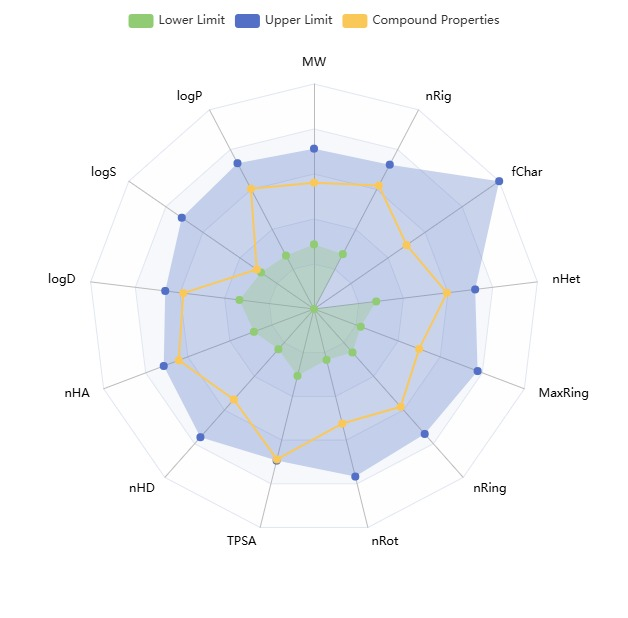
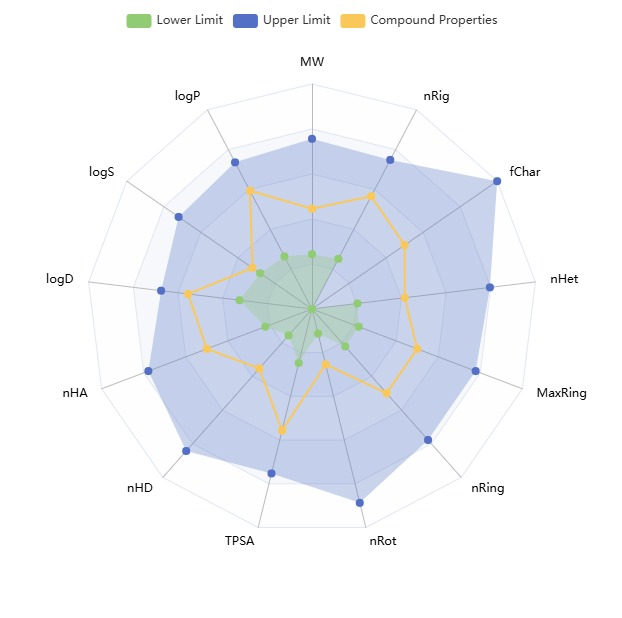
R-GRS

diff --git a/compounds-res/GRS.md b/compounds-res/GRS.md
@@ -34,7 +34,7 @@
 ---
 ### S-Изомер
 
-![Вещество](./images/r-iso-radar.jpg ""){:style="display: block; margin: auto;} 
+![Вещество](./images/s-iso-radar.jpg ""){:style="display: block; margin: auto;} 
 <p style="text-align: center;">Радар-диаграмма биоактивности. Показатели вещества входят в зону биоактивности</p>
 
 **Общее описание**
@@ -166,3 +166,144 @@ SR-p53	++
 
 >Промежуточный вывод: Общая картина анализа ADMET для данной конформации схожа с препаратами аналогами. Предсказаны несколько вариантов токсичности. Требуются уточнения другими методами.
 
+
+### R-Изомер
+
+![Вещество](./images/r-iso-radar.jpg ""){:style="display: block; margin: auto;} 
+<p style="text-align: center;">Радар-диаграмма биоактивности. Показатели вещества входят в зону биоактивности</p>
+
+**Общее описание**
+
+Согласно показателю QED данное вещество попадает в категорию unatractive, хотя близко к нижней границе atractive.
+
+По ряду правил (Липински, Файзер, ГСК, "Золотой треугольник") классифицируем данное вещество как биологически активное. Предупреждения PAINS отсутствуют.
+
+**ABSPORPTION**
+
+```
+Caco-2 Permeability	-5.424		
+MDCK Permeability	0.0		
+PAMPA	+++		
+Pgp inhibitor	++		
+Pgp substrate	---		
+HIA	---		
+F20%	---		
+F30%	-		
+F50%	++	
+```
+
+Предполоагается затрудненное всасывание через кишечную стенку согласно модели Caco-2.
+
+Согласно модели MDCK всасывание невозможно.
+
+Вероятнее всего Pgp не переносится, а также ингибирует действие. Адсорбируется в ЖКТ.
+Вероятность ингибирования меньше чем у другого изомера.
+
+Вероятнее всего в системный кровоток попадет около 20-30% препарата.
+
+**DISTRIBUTION**
+
+```
+PPB	85.9%		
+VDss	1.289		
+BBB	---		
+Fu	9.6%		
+OATP1B1 inhibitor	+++		
+OATP1B3 inhibitor	+++		
+BCRP inhibitor	---		
+MRP1 inhibitor	--		
+BSEP inhibitor	+++
+```
+*Значительная вероятность связывания с белками плазмы крови! Но меньше чем у другого изомера*
+
+Объем распределения входит в оптимальный диапазон. Через гематоэнцефалический барьер не проходит.
+
+Предполагаемая доля свободных моллекул в плазме крови выше в 2 раза.
+
+Есть вероятность ингибирования OATP1B1 и OATP1B3 транспортеров. 
+
+**METABOLISM**
+
+```
+CYP1A2 inhibitor	+++		
+CYP1A2 substrate	+++		
+CYP2C19 inhibitor	---		
+CYP2C19 substrate	---		
+CYP2C9 inhibitor	---		
+CYP2C9 substrate	---		
+CYP2D6 inhibitor	--		
+CYP2D6 substrate	---		
+CYP3A4 inhibitor	--		
+CYP3A4 substrate	---		
+CYP2B6 inhibitor	---		
+CYP2B6 substrate	---		
+CYP2C8 inhibitor	--		
+HLM Stability	--			
+```
+
+Указана значительная вероятность взаимодействия с цитохромом CYP1A2. Микросомальная стабильность ниже чем у изомера. 
+
+
+**EXCRETION**
+
+```
+CLplasma	4.572		ml/min/kg
+T1/2	0.963           hour
+```
+
+Клиренс низкий, время полувыведения - около часа.
+
+**TOXICITY**
+
+```
+hERG Blockers	0.048		
+hERG Blockers (10um)	0.258		
+DILI	0.9		
+AMES Toxicity	0.841		
+Rat Oral Acute Toxicity	0.307		
+FDAMDD	0.156		
+Skin Sensitization	0.977		
+Carcinogenicity	0.648		
+Eye Corrosion	0.009		
+Eye Irritation	0.788		
+Respiratory	0.139		
+Human Hepatotoxicity	0.883		
+Drug-induced Nephrotoxicity	0.804		
+Drug-induced Neurotoxicity	0.7		
+Ototoxicity	0.647		
+Hematotoxicity	0.529		
+Genotoxicity	0.966		
+RPMI-8226 Immunitoxicity	0.058		
+A549 Cytotoxicity	0.169		
+Hek293 Cytotoxicity	0.258		
+BCF	0.441		
+IGC50	3.036		
+LC50DM	4.444		
+LC50FM	3.676		
+                                  TOX21 PATHWAY
+NR-AhR	+++		
+NR-AR	---		
+NR-AR-LBD	---		
+NR-Aromatase	++		
+NR-ER	---		
+NR-ER-LBD	---		
+NR-PPAR-gamma	---		
+SR-ARE	+++		
+SR-ATAD5	--		
+SR-HSE	+		
+SR-MMP	+++		
+SR-p53	++
+```
+
+Предсказана гепатотоксичность, сенсебилизация кожи, ирритация глаз, нефротоксичность, генотоксичность.
+
+Для прояснения картины в первую очередь следует изучить влияние на сигнальные пути:
+
+1. NR-AhR
+2. SR-ARE
+3. SR-MMP
+
+
+>Промежуточный вывод: Общая картина анализа ADMET для данной конформации схожа с препаратами аналогами. Предсказаны несколько вариантов токсичности. Требуются уточнения другими методами. **Данный изомер более перспективен.**
+
+---

diff --git a/result.md b/result.md
@@ -28,6 +28,12 @@
 Для каждого вещества есть отдельная страница отчета.
 
 ---
+Согласно предварительно собраной информации необходимо исследовать взаимодействие предложенных веществ с следующими мишенями:
+1. Растворимая гуанилциклаза
+2. Мембраносвязаная гуанилциклаза
+3. Эднотелиальная синтаза оксида азота
+4. Фосфатидил эстеразы II, III и V
+---
 
 # Анализ ADMET
 
